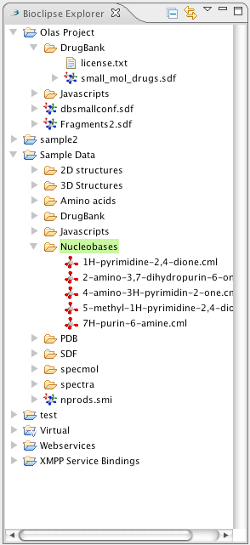
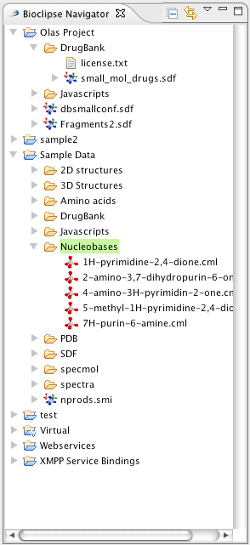
Updated vi_navigator.html

Changed region(s): [[0.056, 0.0, 0.56, 0.0312], [0.56, 0.0312, 0.588, 0.0624], [0.0, 0.0, 0.028, 0.0312]]

diff --git a/plugins/net.bioclipse.ui/html/workbench/views/vi_navigator.html b/plugins/net.bioclipse.ui/html/workbench/views/vi_navigator.html
@@ -25,7 +25,7 @@ will open in an <a href="../../concepts.html#editor">editor</a>. There might be 
 and choose "Open with...". Note that the editor you choose will became the default editor for that type, so if you open 
 a chemical structure file an a text editor once (default being a graphical editor), you need to use "Open with..." to 
 open structure files in the graphical editor again.</p>
-<p>The workspace is normally visible on the left in a fresh Bioclipse install. If you cannot see it, go to "Window -> Show View -> Bioclipse Explorer". 
-If this does not bring up the navigator, you should <a href="../concepts.html#perspectives">choose the Chemoinformatics perspective and reset this</a>.</p>
+<p>The workspace is normally visible on the left in a fresh Bioclipse install. If you cannot see it, go to "Window -> Show View -> Other..." and then "Bioclipse -> Bioclipse Navigator". 
+If this does not bring up the navigator, you should <a href="../../concepts.html#perspectives">choose the Chemoinformatics perspective and reset this</a>.</p>
 </body>
 </html>
